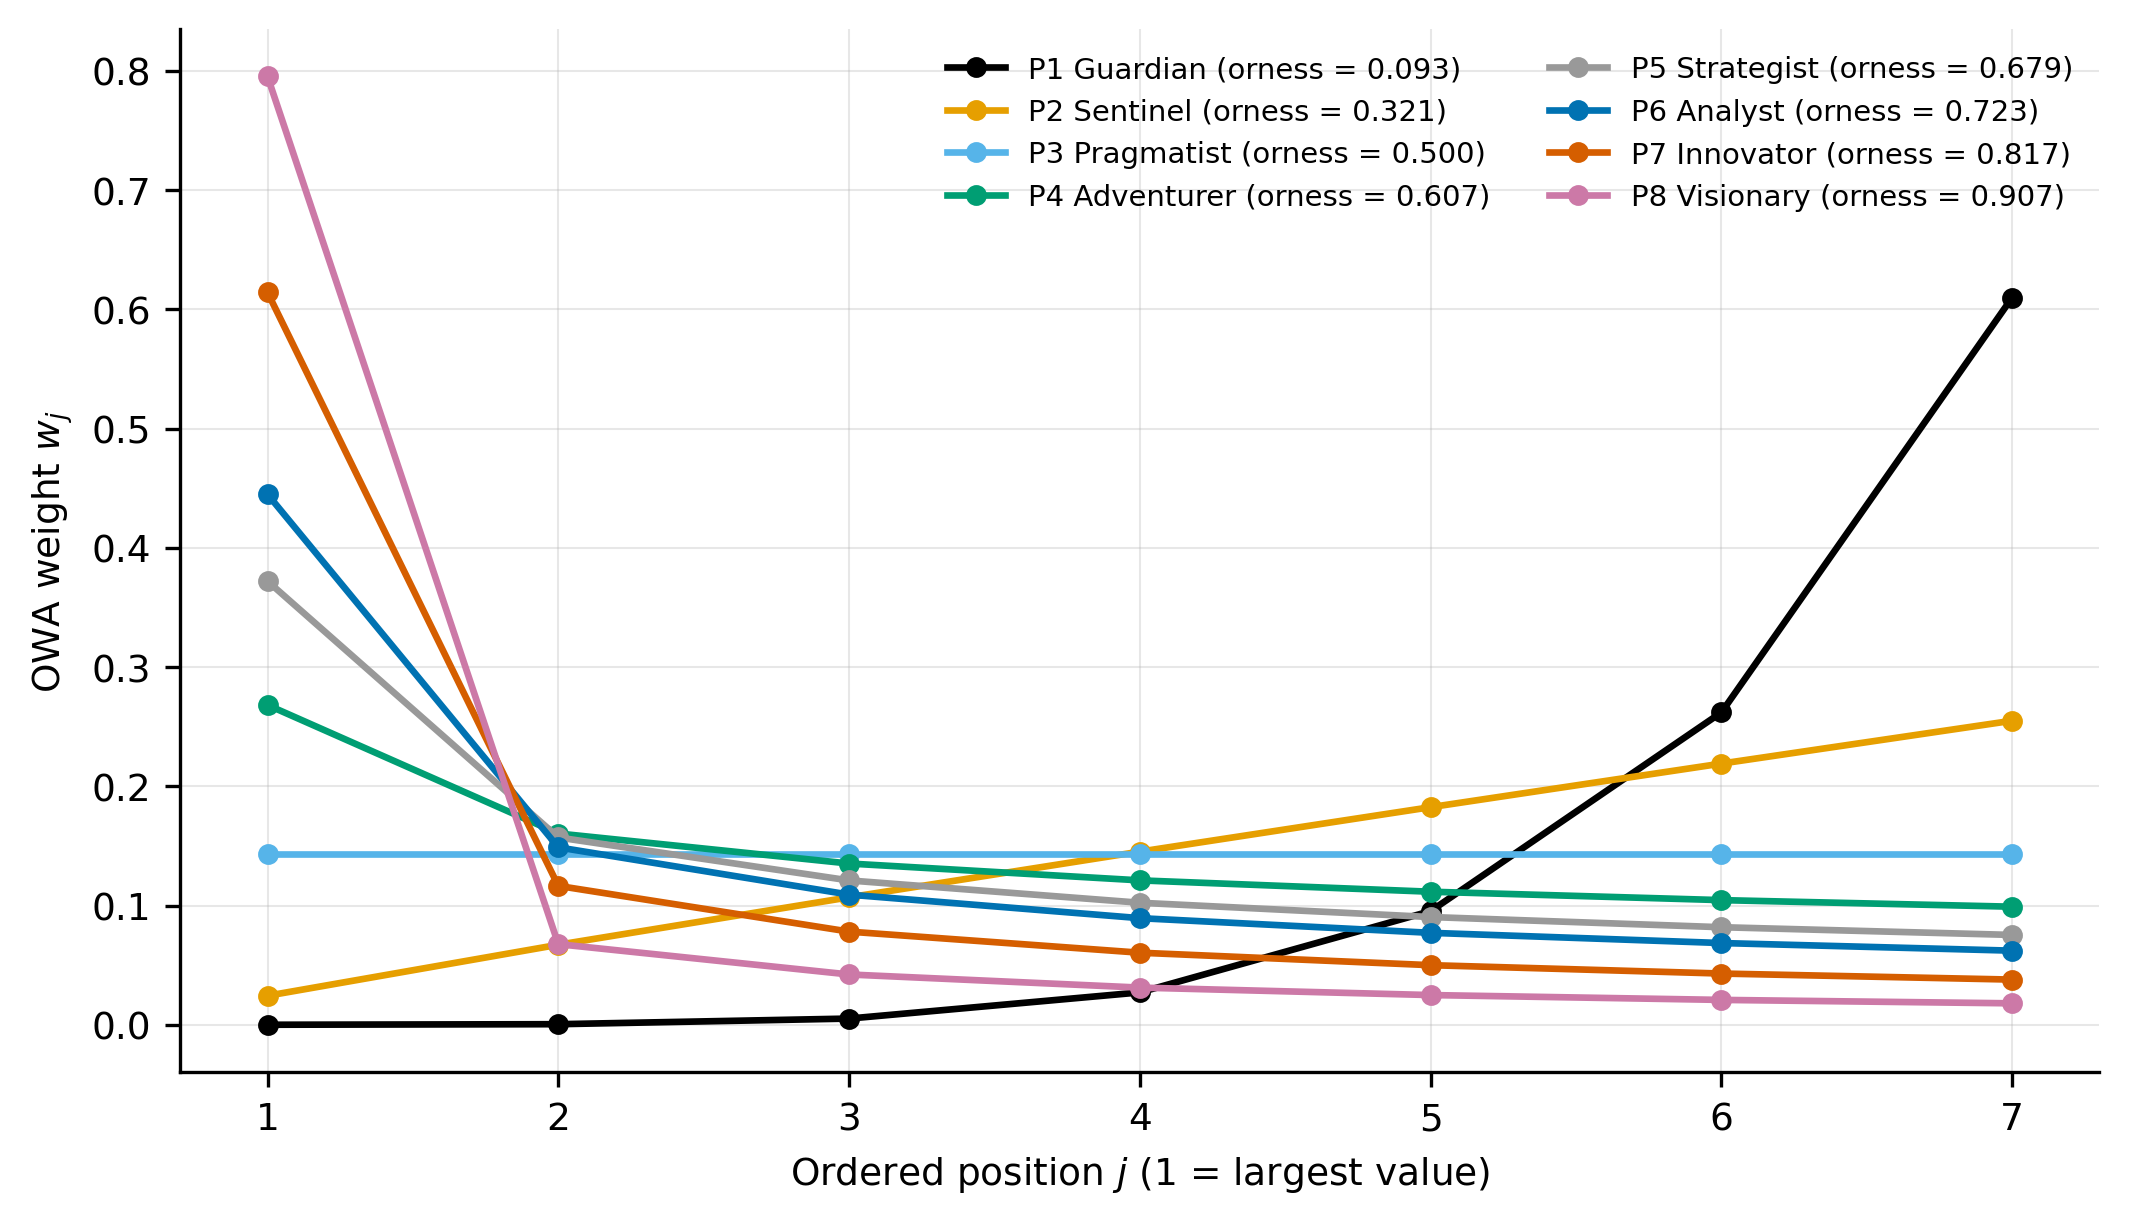
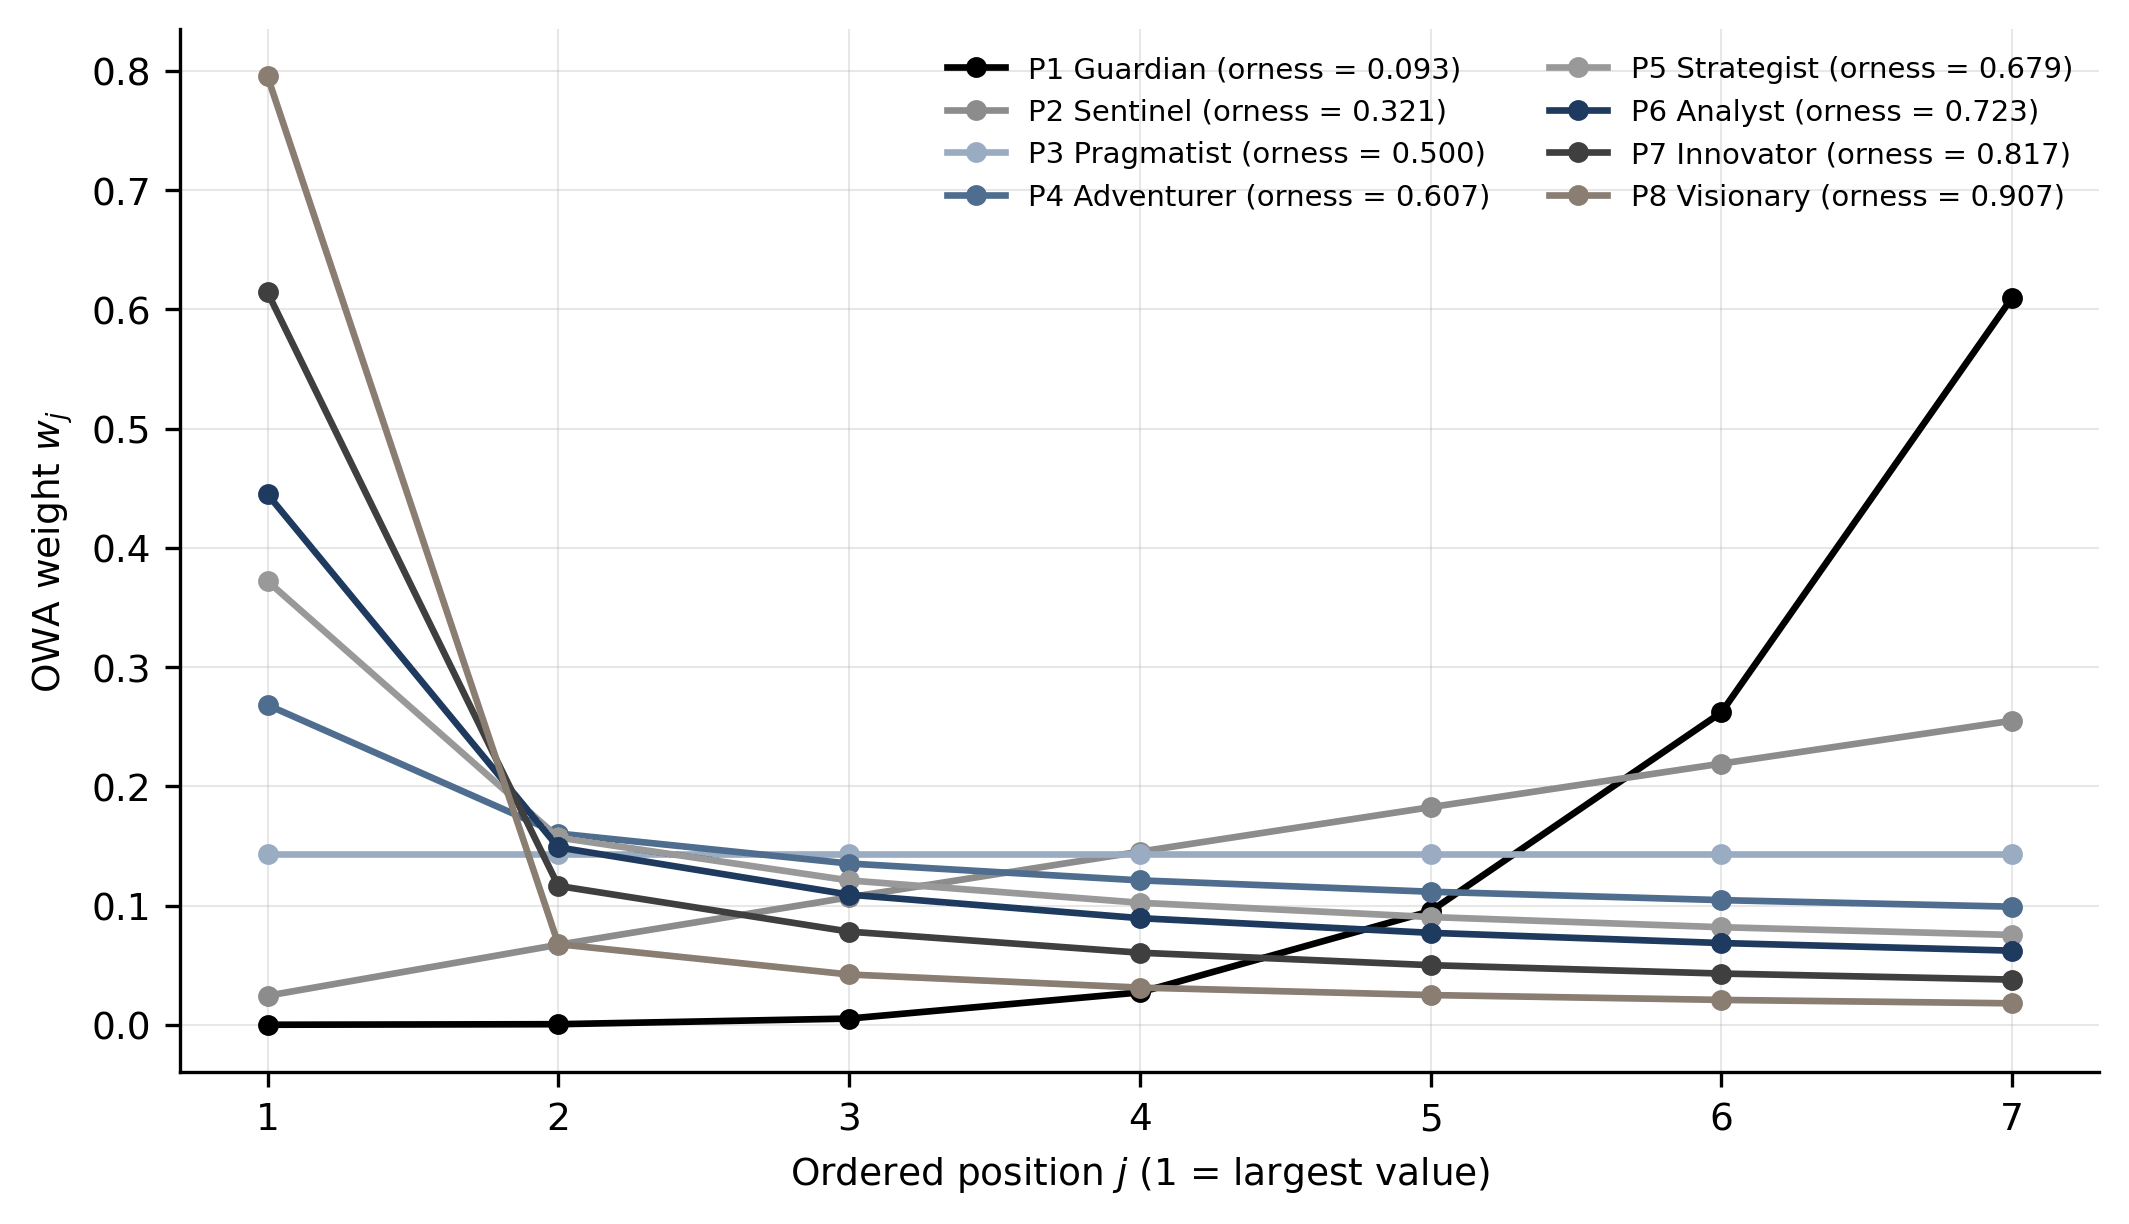
Figuras en paleta institucional (azul marino y grises)
Recolorea todas las figuras y los guiones que las generan; sin cambios de contenido ni de datos.
Figura 3.4 (prisma-repo): desglose de excluidos 161 + 48 + 8 = 217 y diagrama sin notas de proceso.

Claude-Session: https://claude.ai/code/session_0184E9JJGMmxaafh1wjWUT3s

diff --git a/tesis_cap3/figuras_cap3.py b/tesis_cap3/figuras_cap3.py
@@ -1,7 +1,7 @@
 """Figuras 3.1, 3.2 y 3.3 de la monografía (Capítulo 3), rótulos en español y coma decimal.
 
 Datos: parámetros trapezoidales de las etiquetas (Tabla 3.1), vectores lingüísticos de los
-ocho perfiles (Tabla 3.2) y orness v1 por centroides (Tabla 3.3). Paleta Okabe-Ito, fondo
+ocho perfiles (Tabla 3.2) y orness v1 por centroides (Tabla 3.3). Paleta azul marino y grises, fondo
 blanco, 300 dpi.
 """
 import locale
@@ -12,7 +12,7 @@ import matplotlib.pyplot as plt
 from matplotlib.colors import LinearSegmentedColormap
 from matplotlib.ticker import FuncFormatter
 
-OI = ['#0072B2', '#56B4E9', '#009E73', '#F0E442', '#E69F00', '#D55E00', '#CC79A7', '#000000']
+OI = ['#1F3A5F', '#9AACC2', '#4F6D8F', '#B8AE9C', '#8C8C8C', '#3F3F3F', '#8A7D72', '#000000']
 coma = FuncFormatter(lambda x, _: f'{x:.1f}'.replace('.', ','))
 plt.rcParams.update({'font.family': 'DejaVu Sans', 'axes.spines.top': False, 'axes.spines.right': False})
 OUT = 'tesis_cap3/figuras/'
@@ -67,7 +67,7 @@ VAL = {'VL': 0.09, 'L': 0.25, 'M': 0.50, 'H': 0.75, 'VH': 0.91}  # centroides de
 DIMS = ['Toler.\nriesgo (D1)', 'Aversión\npérdida (D5)', 'Auto-\neficacia (D4)', 'Toler.\nambig. (D10)',
         'Horizonte\n(D8)', 'Regul.\nemoc. (D7)', 'Influ.\nsocial (D12)']
 M = np.array([[VAL[e] for e in VEC[p].split()] for p in PER])
-cmap = LinearSegmentedColormap.from_list('oi_azul', ['#FFFFFF', '#56B4E9', '#0072B2'])
+cmap = LinearSegmentedColormap.from_list('oi_azul', ['#FFFFFF', '#9AACC2', '#1F3A5F'])
 fig, ax = plt.subplots(figsize=(8.2, 5.0), dpi=300)
 im = ax.imshow(M, cmap=cmap, vmin=0, vmax=1, aspect='auto')
 for i, p in enumerate(PER):

diff --git a/make_figures.py b/make_figures.py
@@ -1,4 +1,4 @@
-"""Figures for the Fuzzy-OWA typology paper. Okabe-Ito palette, white background, 300 dpi.
+"""Figures for the Fuzzy-OWA typology paper. Navy-and-grey palette, white background, 300 dpi.
 Run analysis_robustness.py first (produces robustness_results.json)."""
 import json
 import numpy as np
@@ -11,7 +11,7 @@ plt.rcParams.update({
     'font.family': 'DejaVu Sans', 'font.size': 9,
     'axes.spines.top': False, 'axes.spines.right': False,
 })
-OI = ['#000000', '#E69F00', '#56B4E9', '#009E73', '#999999', '#0072B2', '#D55E00', '#CC79A7']
+OI = ['#000000', '#8C8C8C', '#9AACC2', '#4F6D8F', '#999999', '#1F3A5F', '#3F3F3F', '#8A7D72']
 
 cog = label_centroids()
 base = calibrate()

diff --git a/README.md b/README.md
@@ -22,7 +22,7 @@ Each profile is a seven-component fuzzy linguistic vector over the behavioral di
 ```bash
 python -m pip install -r requirements.txt
 python analysis_robustness.py     # all analyses -> robustness_results.json
-python make_figures.py            # Figures 1-3 (300 dpi, Okabe-Ito, white background)
+python make_figures.py            # Figures 1-3 (300 dpi, navy-and-grey palette, white background)
 python -m pytest -q               # test suite
 ```
 
